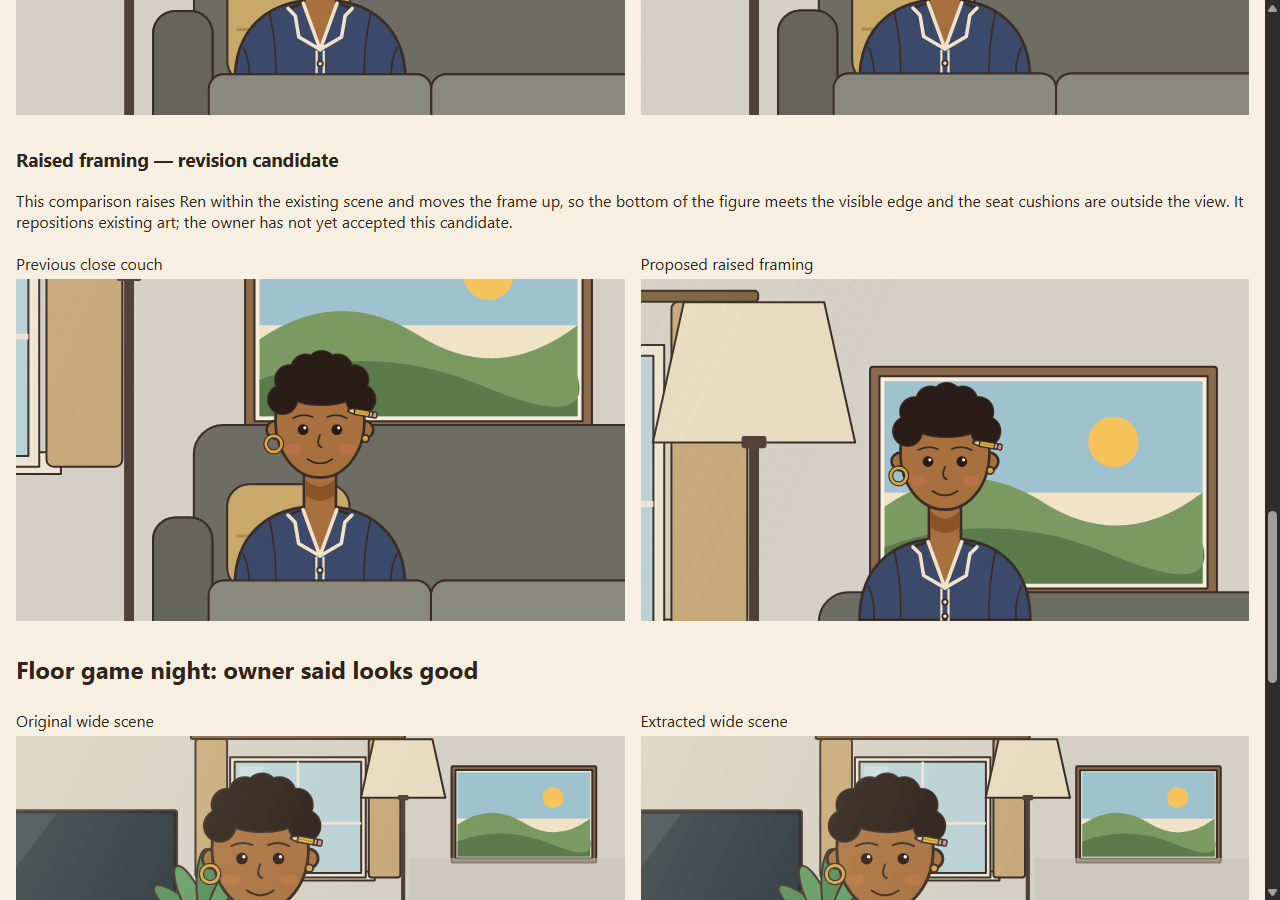
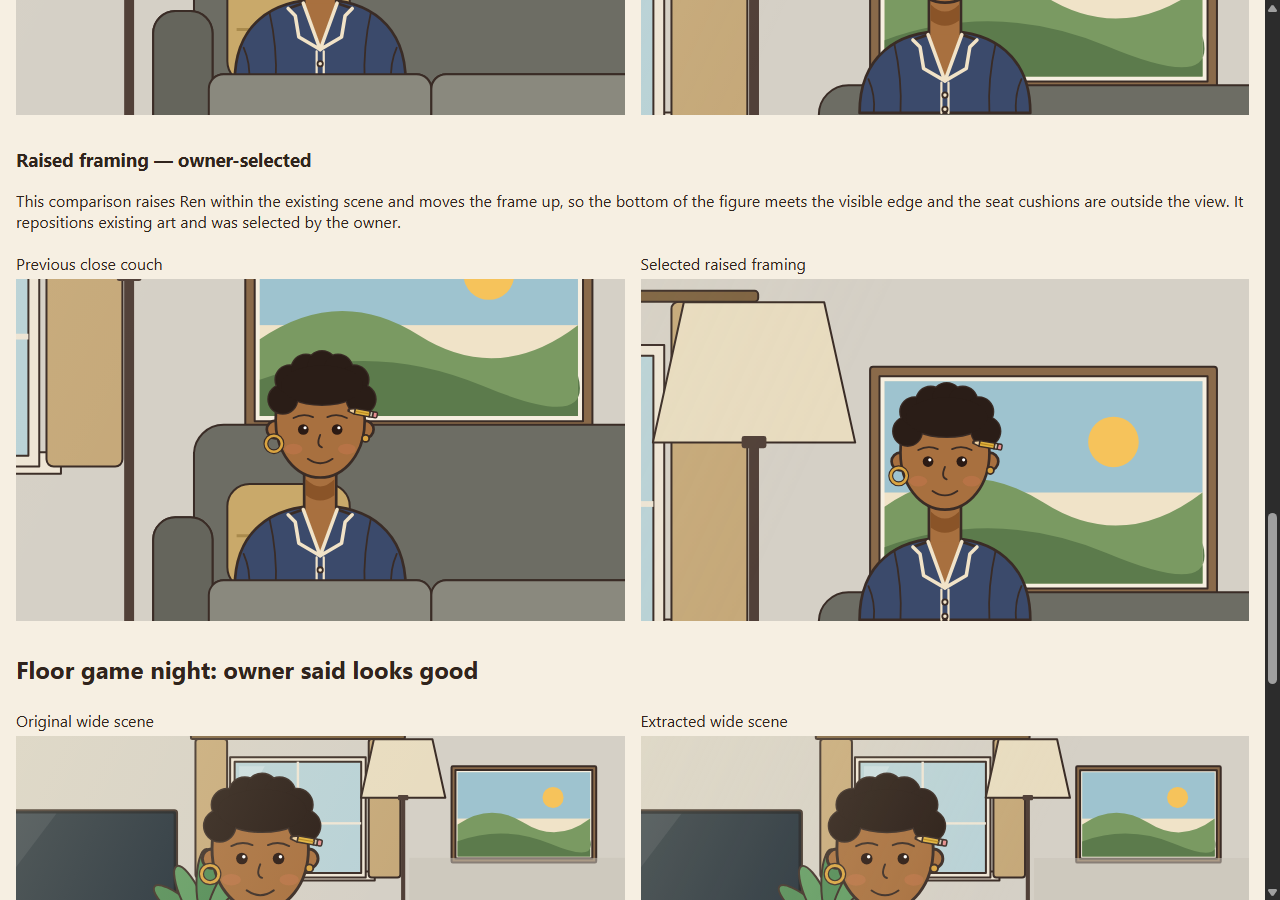
Adopt selected Ren hand and couch framing in kit

diff --git a/reports/development/plan-45-ren-svg-component-extraction/gallery.html b/reports/development/plan-45-ren-svg-component-extraction/gallery.html
@@ -3,12 +3,12 @@ body{font:16px system-ui;margin:1rem;color:#30241d;background:#f6efe2}main{max-w
 /* Inline apartment SVGs deliberately allow host overlays outside their viewBox.
    Each gallery host must clip that paint, as the production scene does. */
 .output,.avatar,.bust{overflow:hidden}
-</style></head><body><main><h1>Plan 45: pinned originals and extracted Ren</h1><p class="note">Review artifact only. Floor image and derived crop are unreviewed candidates; no owner art acceptance or game mounting is implied. The original floor comparison is wide.</p>
+</style></head><body><main><h1>Plan 45: pinned originals and extracted Ren</h1><p class="note">Review artifact only. The owner selected the revised hand and raised couch framing and said to keep the wide floor scene. The separate derived close floor crop remains optional; nothing is mounted in the game.</p>
 <h2>Six expressions</h2><div class="pair"><figure><figcaption>Original round 4 page: six faces and original avatar sizes</figcaption><iframe title="Original six expressions" src="../plan-41-ren-friend-character-and-social-life-study/concepts/round-04-faces-and-door.html"></iframe></figure><figure><figcaption>Extracted: 64 px avatars followed by busts</figcaption><div class="avatars" id="avatars"></div><div class="avatars" id="busts"></div></figure></div>
 <h2>Door</h2><div class="pair"><figure><figcaption>Original door v2</figcaption><img src="../plan-41-ren-friend-character-and-social-life-study/concepts/door-scene-v2.svg" alt="Original door"></figure><figure><figcaption>Extracted door</figcaption><div class="output" id="door"></div></figure></div>
-<h3>Door hand — new drawing candidate</h3><p>The candidate redraws only the raised left hand and wrist, with fingers across the box’s right edge and a small thumb above the hand, following the owner’s marked reference. It is new artwork for review, not an exact extraction of the original. The two enlarged views below show the original and candidate contact.</p><div class="pair"><figure><figcaption>Original hand</figcaption><div class="output" id="hand-original"></div></figure><figure><figcaption>Candidate hand and wrist</figcaption><div class="output" id="hand-candidate"></div></figure></div><div class="pair"><figure><figcaption>Original door</figcaption><div class="output" id="door-before"></div></figure><figure><figcaption>Door with candidate hand</figcaption><div class="output" id="door-candidate"></div></figure></div>
+<h3>Door hand — owner-selected drawing</h3><p>The selected hand redraw changes only the raised left hand and wrist, with fingers across the box’s right edge and a small thumb above the hand. It is derived artwork, not an exact extraction of the original. The two enlarged views below show the original and selected contact.</p><div class="pair"><figure><figcaption>Original hand</figcaption><div class="output" id="hand-original"></div></figure><figure><figcaption>Selected hand and wrist</figcaption><div class="output" id="hand-candidate"></div></figure></div><div class="pair"><figure><figcaption>Original door</figcaption><div class="output" id="door-before"></div></figure><figure><figcaption>Door with selected hand</figcaption><div class="output" id="door-candidate"></div></figure></div>
 <h2>Close couch</h2><div class="pair"><figure><figcaption>Original; inspect sofa foreground and figure edge</figcaption><img src="../plan-41-ren-friend-character-and-social-life-study/concepts/apartment-scenes/scenes/ren-couch-medium.svg" alt="Original couch"></figure><figure><figcaption>Extracted close couch</figcaption><div class="output" id="couch"></div></figure></div>
-<h3>Raised framing — revision candidate</h3><p>This comparison raises Ren within the existing scene and moves the frame up, so the bottom of the figure meets the visible edge and the seat cushions are outside the view. It repositions existing art; the owner has not yet accepted this candidate.</p><div class="pair"><figure><figcaption>Previous close couch</figcaption><div class="output" id="couch-before"></div></figure><figure><figcaption>Proposed raised framing</figcaption><div class="output" id="couch-raised"></div></figure></div>
+<h3>Raised framing — owner-selected</h3><p>This comparison raises Ren within the existing scene and moves the frame up, so the bottom of the figure meets the visible edge and the seat cushions are outside the view. It repositions existing art and was selected by the owner.</p><div class="pair"><figure><figcaption>Previous close couch</figcaption><div class="output" id="couch-before"></div></figure><figure><figcaption>Selected raised framing</figcaption><div class="output" id="couch-raised"></div></figure></div>
 <h2>Floor game night: owner said looks good</h2><div class="pair"><figure><figcaption>Original wide scene</figcaption><img src="../plan-41-ren-friend-character-and-social-life-study/concepts/apartment-scenes/scenes/ren-floor-game-night.svg" alt="Original floor scene"></figure><figure><figcaption>Extracted wide scene</figcaption><div class="output" id="floor"></div></figure></div>
 <h3>Derived close crop — candidate only</h3><p>Compare the table covering Ren's lower edge and the duck's contact with the blue book. Crop does not alter source geometry.</p><div class="pair"><figure><figcaption>Original, same derived crop</figcaption><div class="output" id="crop-original"></div></figure><figure><figcaption>Extracted, same derived crop</figcaption><div class="output" id="crop"></div></figure></div>
 <h2>Floor scene detail: table and duck support</h2><p>These matching crops show where the table hides the bottom of Ren and where the duck rests on the blue book. They enlarge an existing composition and do not add drawing.</p><div class="pair"><figure><figcaption>Original: body edge and supported duck</figcaption><div class="output" id="detail-original"></div></figure><figure><figcaption>Extracted: body edge and supported duck</figcaption><div class="output" id="detail"></div></figure></div>

diff --git a/src/assets/ren/README.md b/src/assets/ren/README.md
@@ -4,7 +4,7 @@ This kit ports existing Plan 41 concept geometry. It does not select cosmetics, 
 
 `renderRen({idPrefix, expression = 'warm', framing = 'bust', decorative = false})` returns `{svg, meta}`. Expressions: `warm`, `laugh`, `tease`, `not-tonight`, `long-day`, `listening`; framing: `avatar` (`46 30 148 148`) or `bust` (`0 0 240 300`). The default is the base appearance with one ear pencil and selected complexion A. No arbitrary combinations of faces, clothes or hair are promised.
 
-`renderRenScene({idPrefix, scene, decorative = false})` returns `{svg, meta}` for `door` and `couch-close`. The lower body is cropped by the door frame or hidden behind the sofa foreground, respectively. `renderFloorCandidate({idPrefix, decorative = false})` returns the original wide unreviewed floor composition for comparison, with the body edge hidden by the coffee table and static duck supported by the blue magazine. The derived close crop is gallery-only, not an accepted composition or this API's production default. Context-specific pajama and cardigan looks in these source scenes are not a rotation policy.
+`renderRenScene({idPrefix, scene, decorative = false})` returns `{svg, meta}` for `door` and `couch-close`. The lower body is cropped by the frame in both views. The door includes the owner-selected hand redraw; the couch uses the owner-selected raised placement and framing. `renderFloorCandidate({idPrefix, decorative = false})` returns the original wide floor composition, which the owner said to keep, for comparison, with the body edge hidden by the coffee table and static duck supported by the blue magazine. The derived close crop is gallery-only, not an accepted composition or this API's production default. Context-specific pajama and cardigan looks in these source scenes are not a rotation policy.
 
 Each instance requires a distinct prefix matching `/^[a-z][a-z0-9-]{0,23}$/`; all other options and values are checked. IDs and Ren classes are isolated per instance. The host must manage clipping and its own cosmetic choice and supply a distinct prefix; this module has no random or mutable state. Do not embed untrusted SVG or text. No report source is imported by runtime modules.
 
